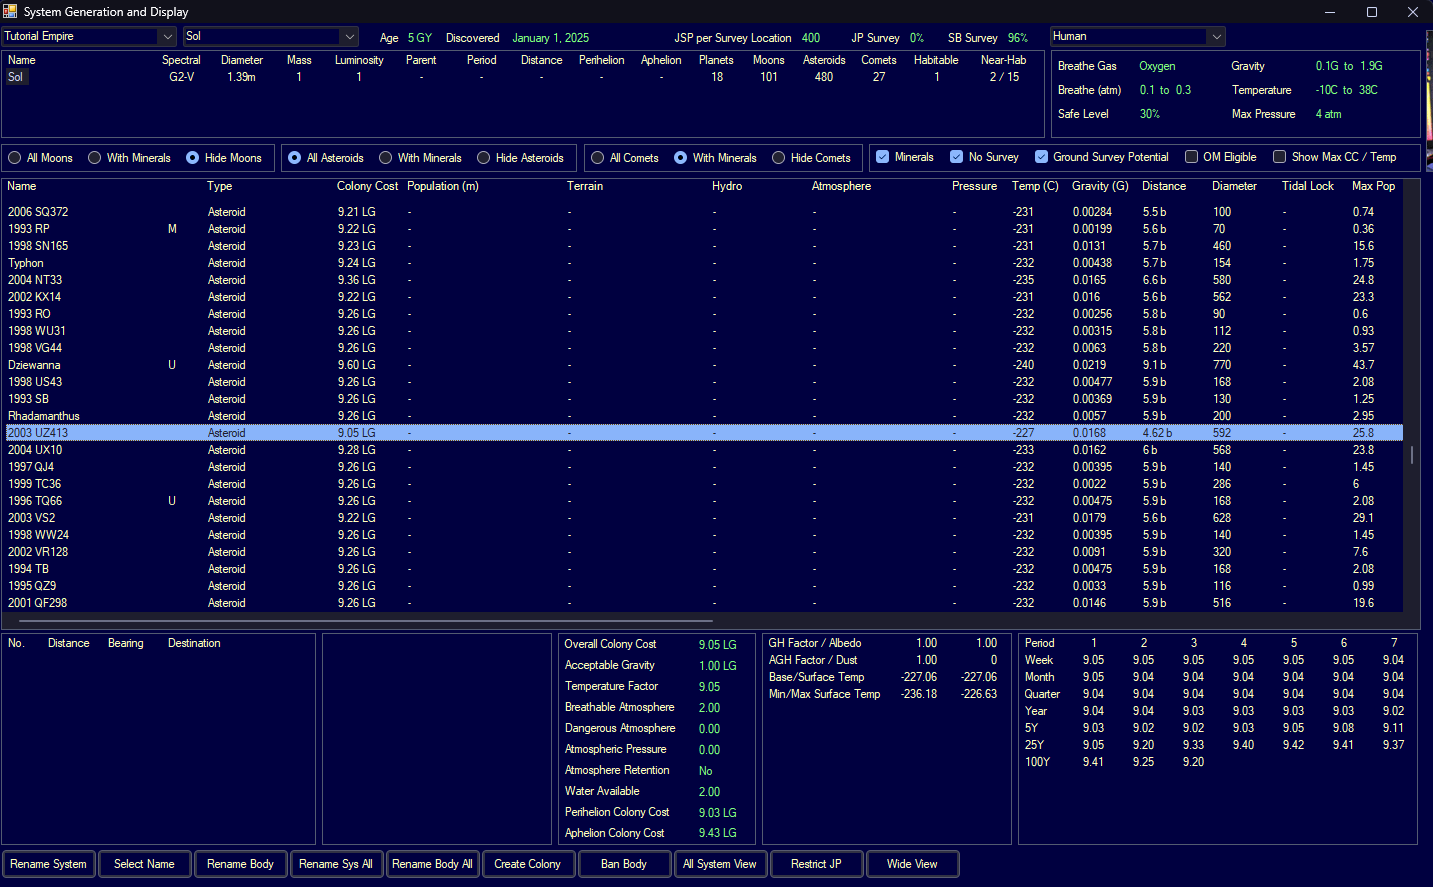
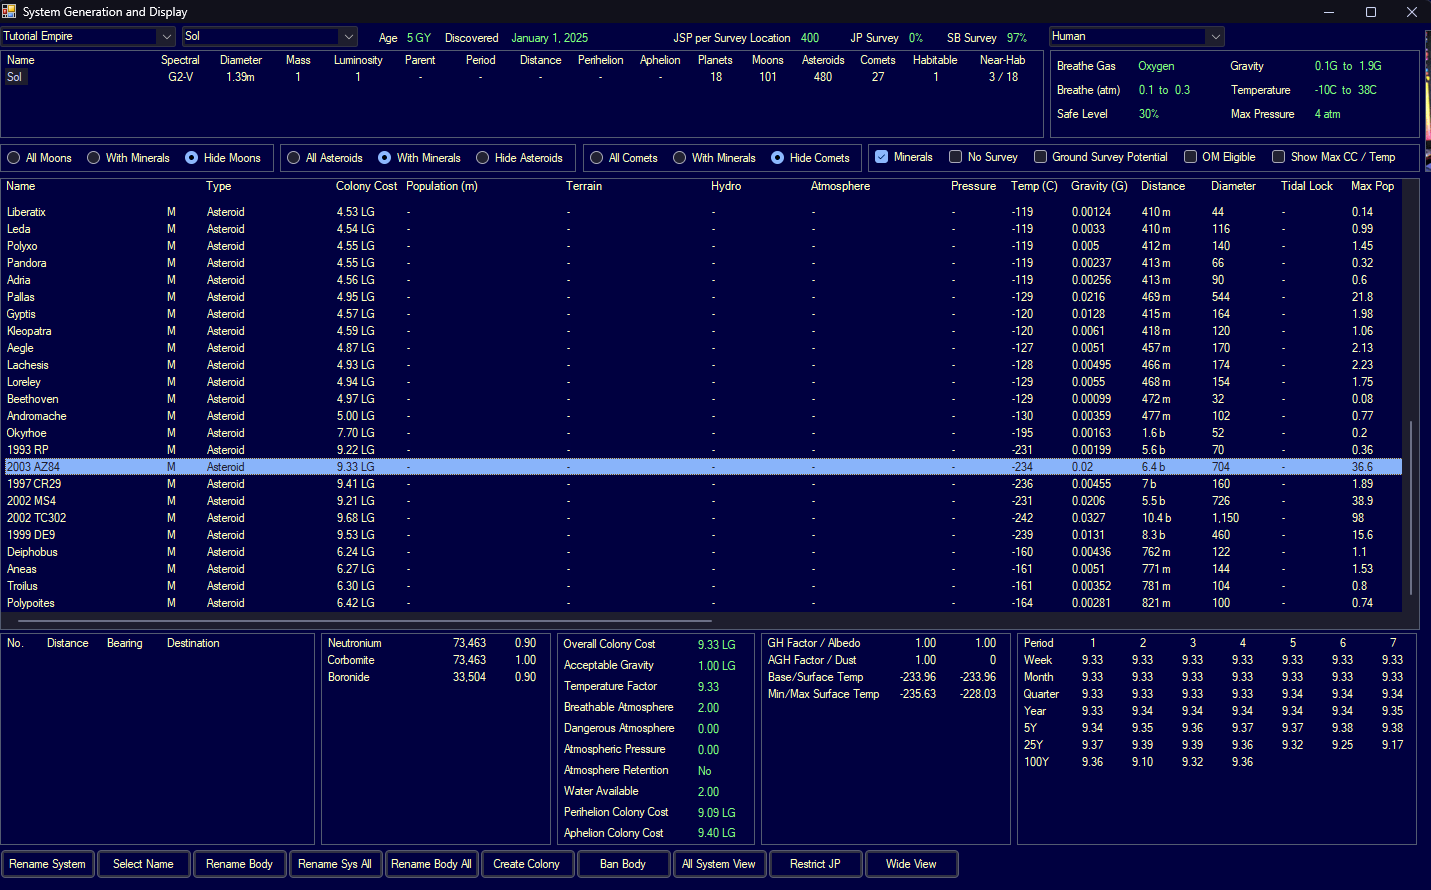
tutorial 5 mostly done

diff --git a/_posts/aurora4x/tutorials/2023-03-16-tutorial5.md b/_posts/aurora4x/tutorials/2023-03-16-tutorial5.md
@@ -1,0 +1,224 @@
+---
+title: Aurora 4x Tutorial Part 5 - Surveying
+date: 2023-03-16 23:12:00 -500
+last_modified_at: 2023-03-16 23:12:00 -500
+categories: [Aurora 4x, tutorial]
+tags: [Aurora 4x, tutorial, survey ship, shipyards, mining, production, naval organization, fleets]
+author: 7w1
+---
+
+> This section of the tutorial is not complete. Most of the text is there, but images have yet to be edited. I just wanted to get this out since it's been a couple days since I released a section. The images and headers should be finished sometime tomorrow.
+{: .prompt-danger }
+
+Now that we've built some survey ships, let's send them off to survey.
+
+If your ships haven't finished construction yet, come back once they do. I'd recommend building at least 2 survey ships, feel free to build more or stick to one.
+
+# Naval Organization
+
+The first thing you'll want to do once your ships have been built, it put them in fleets of their own.
+
+First, open up the **Naval Organization** menu by pressin the ship button.
+
+![img-description](/assets/img/aurora4x/tutorial5/1.png)
+_Image of naval organization button._
+
+Then, locate your ships. In my case, they were both in the **Survey Fleet**. For now, ignore everything other than the left most panel.
+
+![img-description](/assets/img/aurora4x/tutorial5/2.png)
+_Image of ships._
+
+Then, select one of your ships, and press detach. Then do the same for the others.
+
+![img-description](/assets/img/aurora4x/tutorial5/3.png)
+_Image of detach button._
+
+Now, you should see them in their own singular fleets.
+
+![img-description](/assets/img/aurora4x/tutorial5/4.png)
+_Image of isolated fleets._
+
+Next, we're going to create an admin command for them. These provide slight boost to the ships inside them, but as you nest more, higher ranked officers are required to operate them.
+
+First, click on the existing admin command labeled **GEN (empire name) Navy**.
+
+In the tab it opens, select **Survey** and press **Create Admin**.
+
+![img-description](/assets/img/aurora4x/tutorial5/5.png)
+_Image of creating admin command._
+
+Now, type in the name for it. I put 'Survey Command.'
+
+![img-description](/assets/img/aurora4x/tutorial5/6.png)
+_Image of name of command selection._
+
+Then, you'll want to drag your ships into it.
+
+![img-description](/assets/img/aurora4x/tutorial5/7.png)
+_Image of draggin fleets into command._
+
+Now, let's assign someone to be incharge of the **Survey Command**.
+
+Select the command, then on the right you'll want to choose your boosts. Obviously, the first should be **survey** since we're using survey ships. The other boosts don't really matter.
+
+While you're here you can go ahead and tick **Automated Assignments for Admin Command**.
+
+Then press **Assign Admin Commander**.
+
+![img-description](/assets/img/aurora4x/tutorial5/8.png)
+_Image of assigning admin commander._
+
+You should see this line appear at the top, right below the various tabs. It displays your current commander.
+
+![img-description](/assets/img/aurora4x/tutorial5/9.png)
+_Image of admin commander._
+
+Now, click on the general command and do the same thing, choosing whatever boosts you would like.
+
+![img-description](/assets/img/aurora4x/tutorial5/10.png)
+_Image of general command._
+
+Once you've set both commanders, lets start assigning orders for the actual ships.
+
+First, select one of the ships.
+
+![img-description](/assets/img/aurora4x/tutorial5/11.png)
+_Image of selected ship._
+
+Then, click on the **Standing Orders** tab.
+
+This is where we can assign automated orders for our ships to perform whenever we don't tell them to do something more specific.
+
+For this ship, we'll want to tell it to survey everything in the solar system. In the first column, select **Survey Nearest Planet or Moon**, that way those are done first, since they have higher chances of holding large ore veins.
+
+Then, in the second column select **Survey Next Thirty System Bodies**. This will queue thirty bodies to be survyed at the same time. You can also choose smaller amounts which are right above, but a larger amount will keep your ships working on seperate batches of bodies, resulting in slightly improved efficiency, although it doesn't really matter.
+
+In the third column, select **Fuel less than 30%** (we're selecting 30% to be safe, you could likely get away with 20% or even 10%) and below that choose **Refuel from Colony or Hub (All)** which tells it to refuel wherever it can, which right now is only Earth.
+
+And finally, in the forth column, select **Deployment Exceeded** and below it **Refuel, Resupply, and Overhaul at Colony**. That way, once our 48 month deployment ends the ship will reset everything---crew and resources---and restart the 48 month deployment.
+
+![img-description](/assets/img/aurora4x/tutorial5/12.png)
+_Image of standing orders._
+
+After repeating that for all of your survey ships, you can head back to the main screen.
+
+You should see your survey ships start to scan various bodies in the system.
+
+Scanned locations will have a white circle around them (when using the default theme).
+
+![img-description](/assets/img/aurora4x/tutorial5/13.png)
+_Image of survey ships._
+
+While your ships are surveying, feel free to work on other construction or research.
+
+Eventually, you should get a message like this, meaning your ship has finished surveying all bodies in the system.
+
+![img-description](/assets/img/aurora4x/tutorial5/14.png)
+_Image of orders not possible._
+
+Once that appears, head back to the fleet command, select the fleet, and click on the **Movement Orders** tab.
+
+The movement orders tab is where you can tell your fleet to do specific tasks.
+
+Whenever one of your ships finishes surveying, you'll want to tell it to move back to Earth by selecting **Earth** then **Move to Location** and pressing **Add Move**.
+
+![img-description](/assets/img/aurora4x/tutorial5/15.png)
+_Image of add move._
+
+Then, head to the **Standing Orders** tab, and switch everything back to **No Order/Condition**.
+
+![img-description](/assets/img/aurora4x/tutorial5/16.png)
+_Image of no orders/conditions._
+
+Now, that ship will hang around Earth until we do something with it.
+
+Next, let's take a look at our resources. Head to the **economics** window and click on **Mining**.
+
+Here, you can see your resources on Earth. For me, I'm severly lacking **Neutronium**.
+
+To decide what you need, you'll want to look at a few columns.
+
+First, the **Production**, if you have something with low production, you might want to find a location with better **Accessibility** to mine it.
+
+Then, **Depletion**, if anything is depleting soon (less than twenty years) you might want to mine more.
+
+Finally, **Stockpile**, if a stockpile is at zero or close to it, you are probably using a lot of that resource. If its **SP + Production** is lower than your **Projected Usage** (your industry and shipyard tasks) you'll need more.
+
+For me, the most lacking resource is **Neutronium** since its **stockpile** is low (I was using it for industry) and its **accessibility** and **production** is low, meaning it's hard to mine on Earth.
+
+![img-description](/assets/img/aurora4x/tutorial5/17.png)
+_Image of resources._
+
+Once you've chosen the one or two resources you need the most, head to the **Minerals** window.
+
+![img-description](/assets/img/aurora4x/tutorial5/18.png)
+_Image of minerals button._
+
+Here, you can search for specific minerals on bodies you've scanned.
+
+Below each mineral are two numbers, **Amount**, followed by **Accessibility**.
+
+In my case, I typed in **1** for the amount, since I want to filter out everything without **Neutronium**, and **0.8** for the **accessibility**, so that I only find deposits where I can easily mine the resource.
+
+You can also filter for multiple resources if you are running low on multiple, of course, you might not find anything with what you need. In that case, you'll want to establish two mining colonies by repeating my next steps with multiple locations.
+
+![img-description](/assets/img/aurora4x/tutorial5/19.png)
+_Image of filters._
+
+Then, press search.
+
+![img-description](/assets/img/aurora4x/tutorial5/20.png)
+_Image of search._
+
+Here, you'll see a list of locations starting from the highest amount to the lowest. In my case, the asteroid **2003 AZ84** has a large amount, **73,463** and high accesibility of **0.9**, so it's worth mining.
+
+![img-description](/assets/img/aurora4x/tutorial5/21.png)
+_Image of minerals._
+
+Note down whatever location you choose. Then close that window and head to the **System** window.
+
+
+![img-description](/assets/img/aurora4x/tutorial5/22.png)
+_Image of system view button._
+
+Here, you'll want to locate your location. This window also displays a lot of information that isn't very relevent right now, so just scroll through the list. You might need to mess with the filters right above the list if you chose an asteroid.
+
+![img-description](/assets/img/aurora4x/tutorial5/23.png)
+_Image of 2003 AZ84._
+
+Then, hit **Create Colony** so we can begin sending automated mines there, and eventually, people (probably not for my location since it has high requirements, but that'll be discussed later).
+
+![img-description](/assets/img/aurora4x/tutorial5/24.png)
+_Image of create colony._
+
+Finally, you'll want to get a few researches queued up for next time if don't already have them researched.
+
+In **Power and Propulsion**:
+
+- **Nuclear Thermal Engine**, we'll be designing a new, better, engine.
+
+In **Logistics**:
+
+- **Trans-Newtonian Cargo Shuttles**, for unloading items on ships quickly.
+- **Fuel Storage - Large**, for storing more items.
+- **Cargo Hold - Large**, for storing more fuel.
+
+![img-description](/assets/img/aurora4x/tutorial5/25.png)
+_Image of power and propulsion research._
+
+![img-description](/assets/img/aurora4x/tutorial5/26.png)
+_Image of logistics research._
+
+Lastly, if you'd like you can scrap your survey ships since we'll be remaking them later. You could also keep them and just refit them once we design newer versions.
+
+In the **Shipyards** window, you can select **scrap** at the same place we constructed the ships.
+
+![img-description](/assets/img/aurora4x/tutorial5/27.png)
+_Image of scrapping._
+
+See you next time and don't forget to save!
+
+![img-description](/assets/img/aurora4x/save.png)
+_Image of saving._
+
+A link will be posted here once the next tutorial is out, until then, check out the [resources list](https://7w1.github.io/posts/resources/) for more help.

diff --git a/_posts/aurora4x/tutorials/2023-03-14-tutorial4.md b/_posts/aurora4x/tutorials/2023-03-14-tutorial4.md
@@ -243,4 +243,4 @@ Lastly, don't forget to save!
 ![img-description](/assets/img/aurora4x/save.png)
 _Image of saving._
 
-A link will be posted here once the next tutorial is out, until then, check out the [resources list](https://7w1.github.io/posts/resources/) for more help.
+Part 5 is available available [here](https://7w1.github.io/posts/tutorial5/)!
